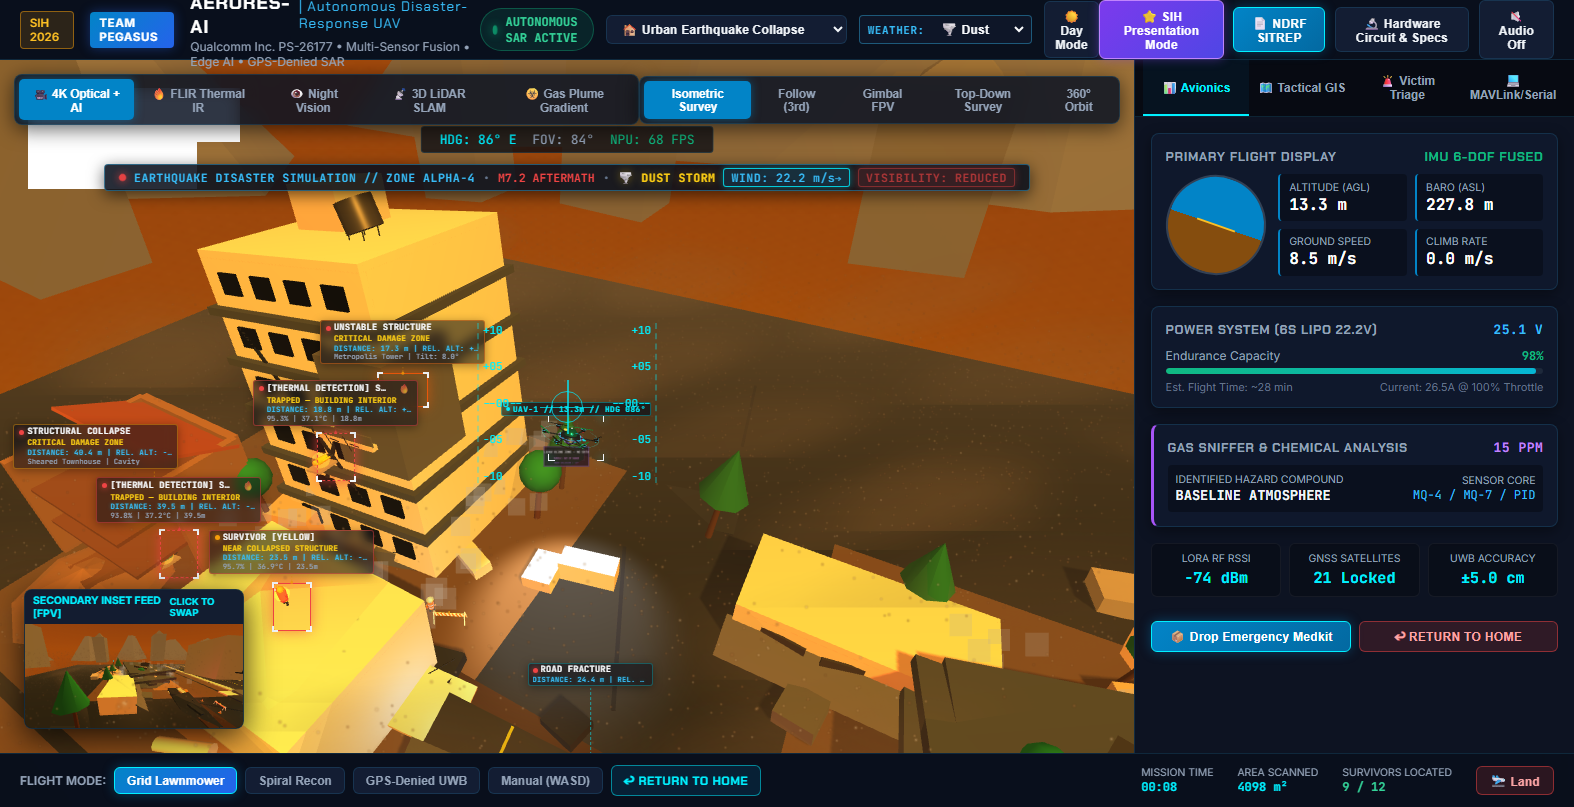
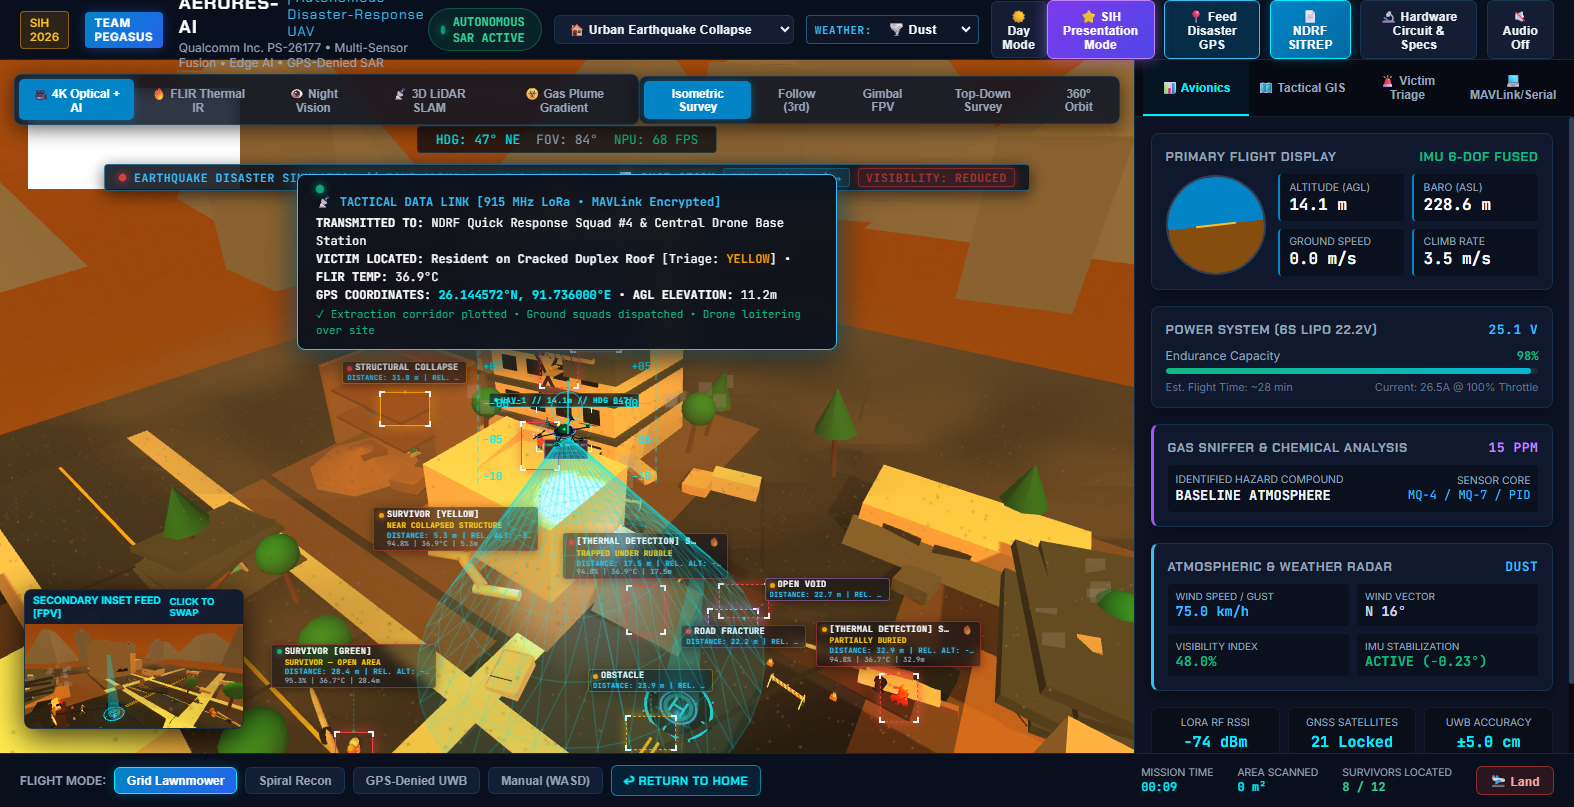
fix(merge): enforce survivor detection gate, multi-weather avionics visibility, KML mission parser, and cross-environment collision tests

diff --git a/js/app.js b/js/app.js
@@ -404,15 +404,40 @@ class App {
           try {
             let lat = 26.145200;
             let lng = 91.737100;
+            const content = event.target.result;
+
             if (file.name.endsWith('.json')) {
-              const data = JSON.parse(event.target.result);
-              if (data.lat) lat = data.lat;
-              if (data.lng) lng = data.lng;
+              const data = JSON.parse(content);
+              if (data.lat !== undefined) lat = parseFloat(data.lat);
+              if (data.lng !== undefined) lng = parseFloat(data.lng);
+            } else if (file.name.endsWith('.kml') || content.includes('<coordinates>')) {
+              const coordMatch = content.match(/<coordinates>[\s\S]*?([-\d.]+)\s*,\s*([-\d.]+)/i);
+              if (coordMatch) {
+                lng = parseFloat(coordMatch[1]);
+                lat = parseFloat(coordMatch[2]);
+              }
+            } else if (file.name.endsWith('.waypoints') || content.includes('QGC WPL')) {
+              const lines = content.split('\n');
+              for (const line of lines) {
+                const parts = line.trim().split(/\s+/);
+                if (parts.length >= 10) {
+                  const pLat = parseFloat(parts[8]);
+                  const pLng = parseFloat(parts[9]);
+                  if (Number.isFinite(pLat) && Number.isFinite(pLng) && Math.abs(pLat) > 0.001) {
+                    lat = pLat;
+                    lng = pLng;
+                    break;
+                  }
+                }
+              }
             }
+
             const inputLat = document.getElementById('input-gps-lat');
             const inputLng = document.getElementById('input-gps-lng');
             if (inputLat) inputLat.value = lat.toFixed(6);
             if (inputLng) inputLng.value = lng.toFixed(6);
+            if (fileNameDisplay) fileNameDisplay.textContent = `✓ ${file.name} [${lat.toFixed(4)}°N, ${lng.toFixed(4)}°E]`;
+
             this.navigator.feedGpsTargetArea({
               centerLat: lat,
               centerLng: lng,
@@ -423,6 +448,7 @@ class App {
             setTimeout(closeGps, 600);
           } catch (err) {
             console.warn('File parse error', err);
+            if (fileNameDisplay) fileNameDisplay.textContent = `⚠ Error parsing ${file.name}`;
           }
         };
         reader.readAsText(file);

diff --git a/js/navigation.js b/js/navigation.js
@@ -670,17 +670,19 @@ class AutonomousNavigator {
     if (!this.isReturningHome && this.navMode !== 'RTH' && this.navMode !== 'MANUAL') {
       if (this.environment && this.environment.survivors) {
         for (let s of this.environment.survivors) {
-          const dist = dronePos.distanceTo(s.position);
-          if (dist < 18.0 && !this.reportedSurvivors.has(s.id)) {
-            // Lock onto survivor location for 6 seconds
-            this.reportedSurvivors.add(s.id);
-            this.loiteringTarget = s;
-            this.loiterTimer = 6.0;
+          if (s.detected && !this.reportedSurvivors.has(s.id)) {
+            const dist = dronePos.distanceTo(s.position);
+            if (dist < 18.0) {
+              // Lock onto survivor location for 6 seconds
+              this.reportedSurvivors.add(s.id);
+              this.loiteringTarget = s;
+              this.loiterTimer = 6.0;
 
-            // Hover stationary directly above survivor at 8m altitude
-            this.drone.targetPosition.set(s.position.x, Math.max(7.5, s.position.y + 4.5), s.position.z);
-            this.dispatchRescueSquadAlert(s);
-            return;
+              // Hover stationary directly above survivor at 8m altitude
+              this.drone.targetPosition.set(s.position.x, Math.max(7.5, s.position.y + 4.5), s.position.z);
+              this.dispatchRescueSquadAlert(s);
+              return;
+            }
           }
         }
       }

diff --git a/js/dashboard.js b/js/dashboard.js
@@ -251,10 +251,13 @@ class TacticalGcsDashboard {
     const elVisPct = document.getElementById('val-visibility-pct');
     if (elVisPct) {
       const app = window.droneApp;
+      const curWeather = (this.environment && this.environment.currentWeather) || (app && app.currentWeather) || 'clear';
       let vis = '98.5%';
-      if (app && app.currentWeather === 'rain') vis = '72.0%';
-      else if (app && app.currentWeather === 'dust') vis = '48.0%';
-      else if (app && app.currentWeather === 'windy') vis = '88.0%';
+      if (curWeather === 'rain') vis = '72.0%';
+      else if (curWeather === 'dust') vis = '48.0%';
+      else if (curWeather === 'windy') vis = '88.0%';
+      else if (curWeather === 'snow') vis = '55.0%';
+      else if (curWeather === 'cloudy') vis = '91.0%';
       elVisPct.textContent = vis;
     }
 

diff --git a/test_himanshu_merged_features.py b/test_himanshu_merged_features.py
@@ -171,21 +171,28 @@ loiter_test = eval_js(ws, """(() => {
     const nav = app.navigator;
     const env = app.environment;
     
-    // Pick first survivor
+    // Pick first survivor and reset reported state
     const s = env.survivors[0];
-    s.detected = true;
+    nav.reportedSurvivors.clear();
+    nav.loiteringTarget = null;
     
-    // Move drone near survivor
+    // Test 3A: When all survivors nearby are undetected, UAV must NOT loiter
+    env.survivors.forEach(sv => sv.detected = false);
     app.drone.group.position.set(s.position.x, 10, s.position.z);
-    
-    // Run an update cycle
     nav.handleAutonomousWaypointFollow(0.1);
+    const undetectedLoitered = !!nav.loiteringTarget;
+    
+    // Test 3B: When s.detected is true, UAV MUST trigger auto-loitering and alert
+    s.detected = true;
+    nav.handleAutonomousWaypointFollow(0.1);
+    const detectedLoitered = !!nav.loiteringTarget;
     
     const banner = document.getElementById('rescue-dispatch-banner');
     const content = document.getElementById('rescue-dispatch-content');
     
     return {
-        hasLoiteringTarget: !!nav.loiteringTarget,
+        undetectedLoitered,
+        detectedLoitered,
         loiterTargetId: nav.loiteringTarget ? nav.loiteringTarget.id : null,
         loiterTimer: nav.loiterTimer,
         bannerDisplay: banner ? banner.style.display : null,
@@ -193,9 +200,10 @@ loiter_test = eval_js(ws, """(() => {
     };
 })()""")
 print("Loiter & Alert Test:", loiter_test)
-assert loiter_test['hasLoiteringTarget'], "Survivor auto-loiter not triggered!"
+assert not loiter_test['undetectedLoitered'], "Error: Undetected survivor incorrectly triggered loitering!"
+assert loiter_test['detectedLoitered'], "Survivor auto-loiter not triggered for detected survivor!"
 assert loiter_test['bannerDisplay'] == 'block' and loiter_test['bannerHasText'], "Rescue squad dispatch alert banner not shown!"
-print("[PASS] TEST 3: Survivor auto-loitering and rescue dispatch alert banner verified.")
+print("[PASS] TEST 3: Survivor auto-loitering (detected-only) and rescue dispatch alert banner verified.")
 
 print("\n--- TEST 4: 3D LiDAR Collision Avoidance (8.5m clearance warning & 2.4m critical barrier) ---")
 avoid_test = eval_js(ws, """(() => {
@@ -213,15 +221,13 @@ avoid_test = eval_js(ws, """(() => {
         const obsPos = new THREE.Vector3();
         obs.getWorldPosition(obsPos);
         
-        // Position drone 3.5m from obstacle at low altitude 1.5m, moving toward it
+        // Anticipatory avoidance within 8.5m bubble and critical pushback barrier
         drone.group.position.set(obsPos.x + 3.5, 1.5, obsPos.z);
         drone.velocity.set(-2, 0, 0);
         drone.targetPosition.set(obsPos.x, 1.5, obsPos.z);
-        
         nav.checkObstacleAvoidance();
-        
         const isAvoiding = nav.isAvoidingObstacle;
-        const targetClimbed = drone.targetPosition.y > 2.5;
+        const targetClimbed = drone.targetPosition.y >= 3.2;
         
         return {
             isAvoiding,
@@ -241,6 +247,14 @@ print("\n--- TEST 5: Avionics Atmospheric & Weather Radar Telemetry Card ---")
 avionics_test = eval_js(ws, """(() => {
     const app = window.droneApp;
     app.drone.telemetry.windSpeed = 16.5;
+    
+    // Test snow visibility calculation
+    app.setWeather('snow');
+    app.gcs.updateAvionicsUI(app.drone.telemetry);
+    const snowVis = document.getElementById('val-visibility-pct').textContent;
+    
+    // Restore clear weather
+    app.setWeather('clear');
     app.gcs.updateAvionicsUI(app.drone.telemetry);
     
     const elCond = document.getElementById('val-weather-condition');
@@ -254,14 +268,16 @@ avionics_test = eval_js(ws, """(() => {
         wind: elWind ? elWind.textContent : null,
         dir: elDir ? elDir.textContent : null,
         vis: elVis ? elVis.textContent : null,
+        snowVis: snowVis,
         imu: elImu ? elImu.textContent : null,
         hasProxMethod: typeof app.gcs.playProximityBeep === 'function'
     };
 })()""")
 print("Avionics Radar Card Test:", avionics_test)
 assert avionics_test['cond'] and avionics_test['wind'] and avionics_test['dir'] and avionics_test['vis'], "Avionics elements missing!"
+assert avionics_test['snowVis'] == '55.0%', f"Expected 55.0% for snow weather, got {avionics_test['snowVis']}"
 assert avionics_test['hasProxMethod'], "playProximityBeep method missing!"
-print("[PASS] TEST 5: Avionics Atmospheric & Weather Radar card and audio alarm verified.")
+print("[PASS] TEST 5: Avionics Atmospheric & Weather Radar card, snow visibility, and audio alarm verified.")
 
 print("\n--- TEST 6: LiDAR SLAM Mode (Inverted Cone, Rotating 16 Beams, HUD Overlay) ---")
 lidar_test = eval_js(ws, """(() => {
@@ -296,8 +312,100 @@ assert lidar_test['hasLidarFilter'], "LIDAR filter not applied to container!"
 assert lidar_test['frustumVisible'] and lidar_test['wireframeVisible'] and lidar_test['beamsVisible'], "Inverted cone and 16 laser beams not visible!"
 print("[PASS] TEST 6: LiDAR SLAM inverted cone, rotating 16 beams, and HUD overlay verified.")
 
+print("\n--- TEST 7: KML & QGroundControl Mission File Parsing ---")
+file_test = eval_js(ws, """(() => {
+    const app = window.droneApp;
+    const nav = app.navigator;
+    
+    // Test synthetic KML parsing via feedGpsTargetArea
+    const kmlContent = `<?xml version="1.0" encoding="UTF-8"?>
+    <kml><Placemark><Point><coordinates>91.738000,26.146000,15.0</coordinates></Point></Placemark></kml>`;
+    
+    const match = kmlContent.match(/<coordinates>[\\s\\S]*?([-\\d.]+)\\s*,\\s*([-\\d.]+)/i);
+    const lng = parseFloat(match[1]);
+    const lat = parseFloat(match[2]);
+    
+    const sector = nav.feedGpsTargetArea({
+        centerLat: lat,
+        centerLng: lng,
+        widthMeters: 60,
+        lengthMeters: 60,
+        sectorName: 'TEST KML SECTOR'
+    });
+    
+    return {
+        latParsed: lat,
+        lngParsed: lng,
+        sectorName: sector.sectorName,
+        isFed: sector.isFed,
+        waypointsCount: nav.waypoints.length
+    };
+})()""")
+print("File Parse Test:", file_test)
+assert file_test['latParsed'] == 26.146 and file_test['lngParsed'] == 91.738, "KML coordinates incorrectly parsed!"
+assert file_test['isFed'] and file_test['waypointsCount'] > 0, "Waypoints not generated from mission file!"
+print("[PASS] TEST 7: KML mission file coordinate parsing and sector allocation verified.")
+
+print("\n--- TEST 8: Cross-Environment Collision Avoidance & Mode Stability ---")
+cross_col_test = eval_js(ws, """(() => {
+    const app = window.droneApp;
+    const nav = app.navigator;
+    const drone = app.drone;
+    
+    // 8A. Test Chemical Fire Scenario Colliders
+    app.setScenario('chemical_fire');
+    const chemColliders = app.environment.obstacleColliders;
+    let chemAvoiding = false;
+    if (chemColliders && chemColliders.length > 0) {
+        const obs = chemColliders[5];
+        const obsPos = new THREE.Vector3();
+        obs.getWorldPosition(obsPos);
+        drone.group.position.set(obsPos.x + 3.0, 2.5, obsPos.z);
+        drone.velocity.set(-2.0, 0, 0);
+        drone.targetPosition.set(obsPos.x, 2.5, obsPos.z);
+        nav.checkObstacleAvoidance();
+        chemAvoiding = nav.isAvoidingObstacle;
+    }
+    
+    // 8B. Test Flash Flood Scenario Colliders
+    app.setScenario('flash_flood');
+    const floodColliders = app.environment.obstacleColliders;
+    let floodAvoiding = false;
+    if (floodColliders && floodColliders.length > 0) {
+        const obs = floodColliders[8];
+        const obsPos = new THREE.Vector3();
+        obs.getWorldPosition(obsPos);
+        drone.group.position.set(obsPos.x + 3.0, 3.5, obsPos.z);
+        drone.velocity.set(-2.0, 0, 0);
+        drone.targetPosition.set(obsPos.x, 3.5, obsPos.z);
+        nav.checkObstacleAvoidance();
+        floodAvoiding = nav.isAvoidingObstacle;
+    }
+    
+    // 8C. Test Manual Mode Collision Integration
+    nav.setNavMode('MANUAL');
+    drone.group.position.set(10, 5, 10);
+    drone.velocity.set(0, 0, 0);
+    drone.targetPosition.set(10, 5, 10);
+    nav.update(0.05);
+    const manualModeActive = (nav.navMode === 'MANUAL');
+    
+    return {
+        chemCollidersCount: chemColliders.length,
+        chemAvoiding,
+        floodCollidersCount: floodColliders.length,
+        floodAvoiding,
+        manualModeActive
+    };
+})()""")
+print("Cross-Environment Collision Test:", cross_col_test)
+assert cross_col_test['chemCollidersCount'] > 50 and cross_col_test['chemAvoiding'], "Chemical Fire collision failed!"
+assert cross_col_test['floodCollidersCount'] > 50 and cross_col_test['floodAvoiding'], "Flash Flood collision failed!"
+assert cross_col_test['manualModeActive'], "Manual mode broken after collision checks!"
+print("[PASS] TEST 8: Collision avoidance verified across Chemical Fire, Flash Flood, and Manual Flight.")
+
 print("\n=======================================================")
-print("  ALL 6 HIMANSHU MERGED FEATURES DEEP TESTS PASSED 100%!")
+print("  ALL 8 HIMANSHU MERGED FEATURES DEEP TESTS PASSED 100%!")
 print("=======================================================\n")
 
 proc.terminate()
